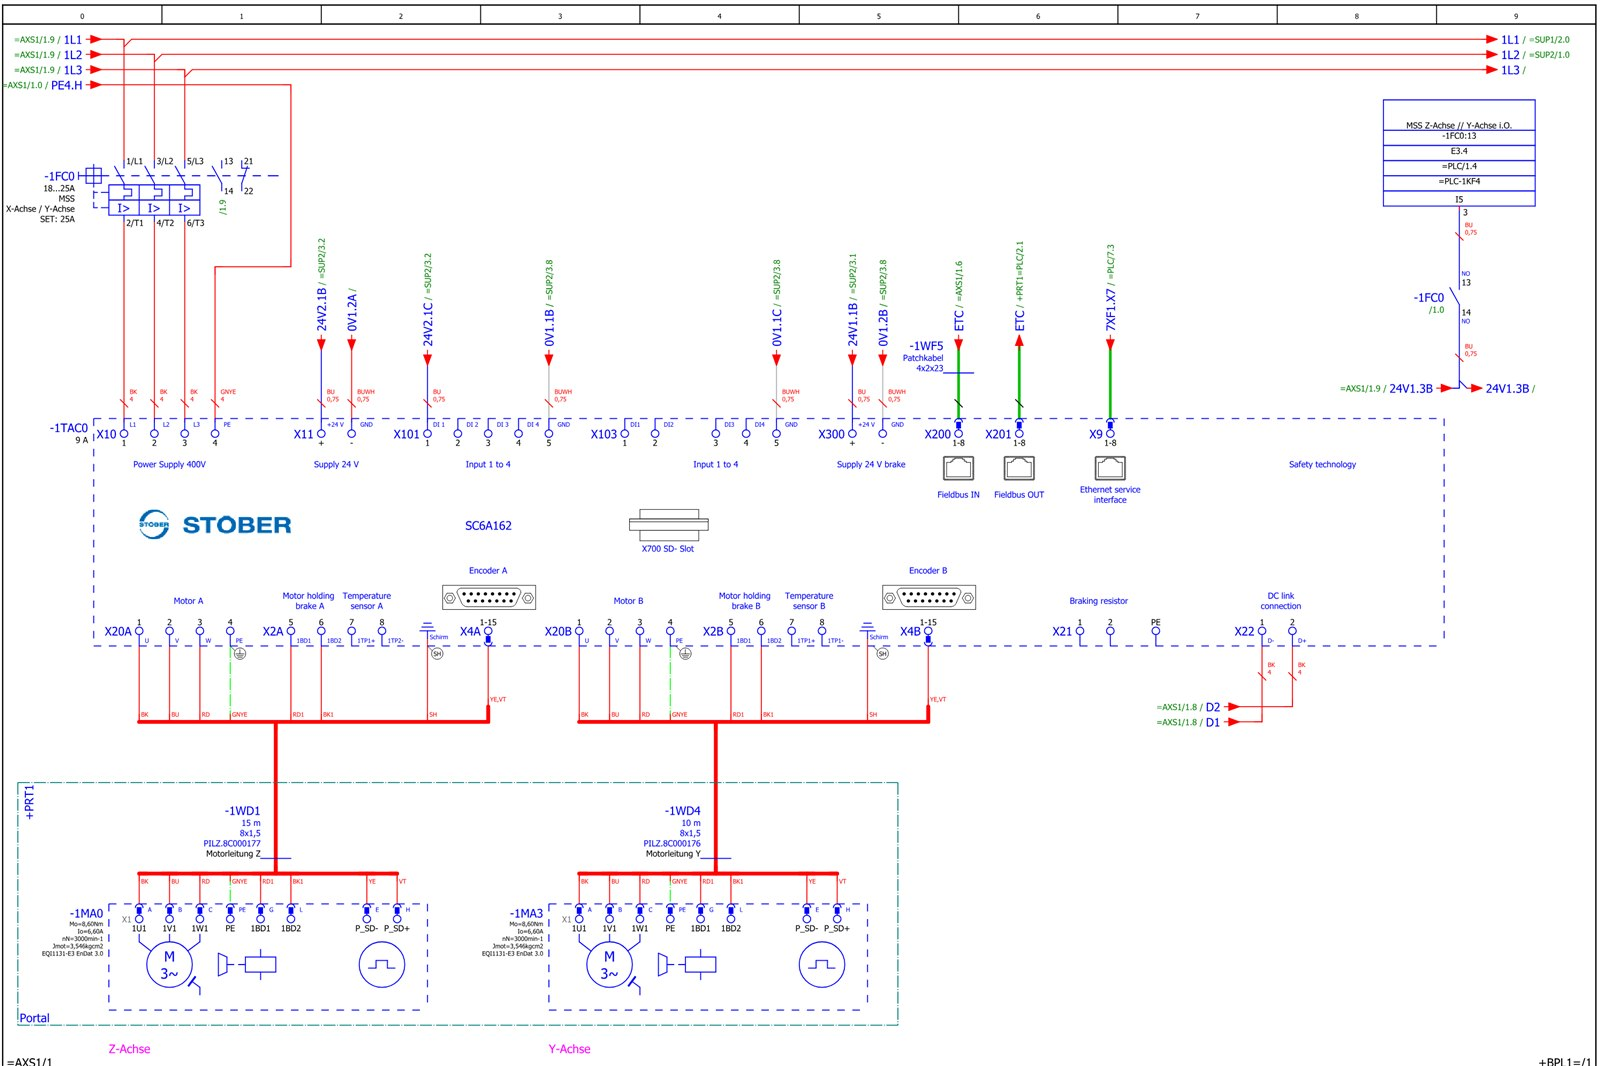
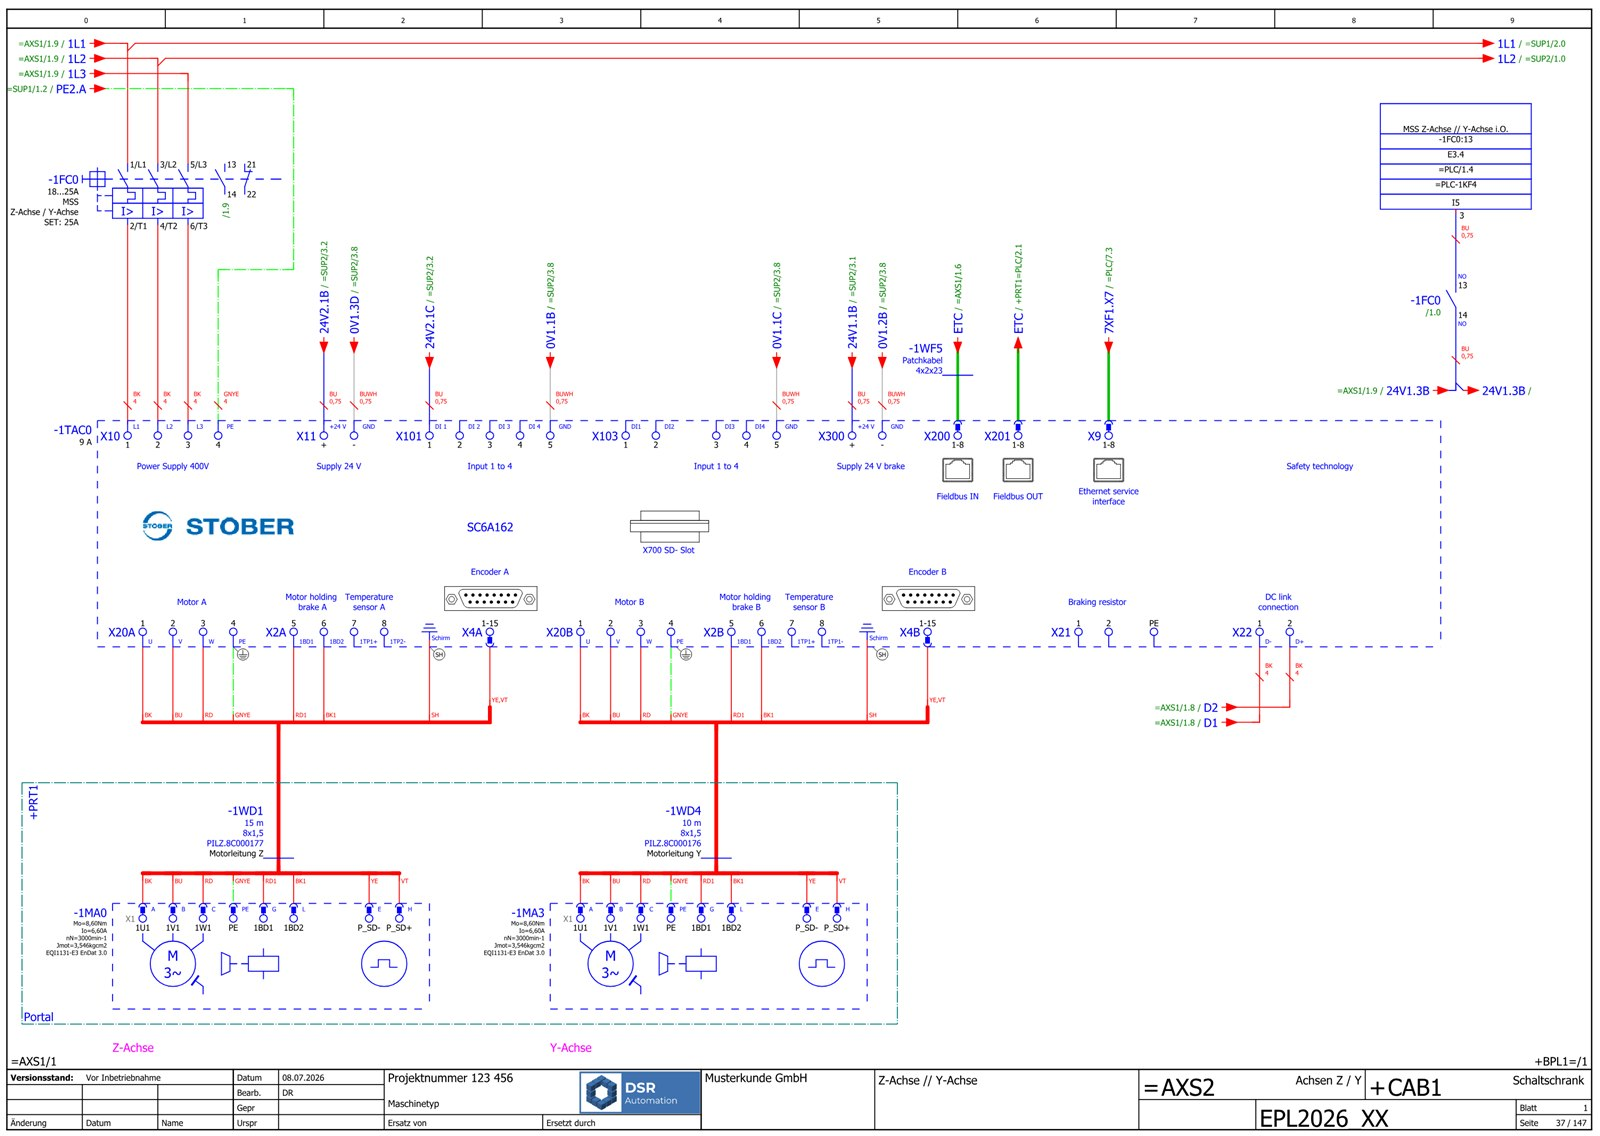
Schaltplan-Bild aktualisiert: korrigierter Querverweis, komplettes Normblatt (anonymisiertes Schriftfeld)

diff --git a/index.html b/index.html
@@ -171,8 +171,8 @@
         und Verdrahtungswege geklärt, bevor die erste Schiene gesetzt wird.
       </p>
       <figure class="banner-fig plan-fig">
-        <img class="photo" src="img/schaltplan.jpg" alt="Stromlaufplan-Seite aus EPLAN Electric P8: Servoregler mit zwei Achsen, Sicherheitstechnik und Motoren">
-        <figcaption>Am Anfang steht der Stromlaufplan – hier die Achsseite eines Servoreglers mit Sicherheitstechnik.</figcaption>
+        <img class="photo" src="img/schaltplan.jpg" alt="Komplette Stromlaufplan-Seite aus EPLAN Electric P8 mit Normblatt: Servoregler mit zwei Achsen, Sicherheitstechnik und Motoren">
+        <figcaption>Am Anfang steht der normgerechte Stromlaufplan – hier die Achsseite eines Servoreglers mit Sicherheitstechnik.</figcaption>
       </figure>
       <div class="duo">
         <figure>
